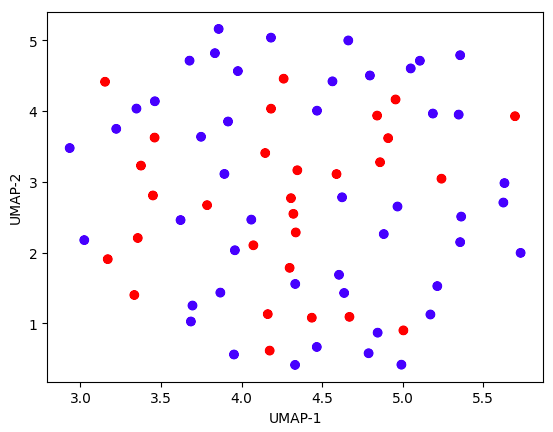
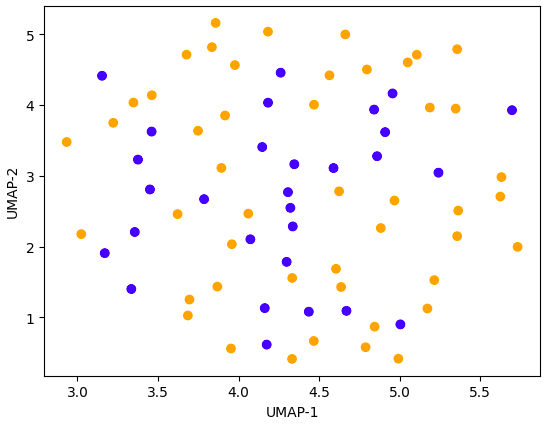
reran UMAP to change the colours of HC and SZ

diff --git a/README.md b/README.md
@@ -200,6 +200,6 @@ With that said, there are hints that a signature is not present in the EEG under
 
 ![](https://raw.githubusercontent.com/cgpayne/electropsychographer/master/markdown_images/cond1_fold0_UMAP_HC_SZ.png)
 
-where red are the health controls, and blue are the patients with schizophrenia.
+where blue are the health controls, and orange are the patients with schizophrenia.
 
 Although the preliminary results are disappointing so far, there is considerable potential that a new model can be built which finds a signature, and I am not prepared to make a hard conclusion on the hypothetical failure of this project without further analysis and modelling.
